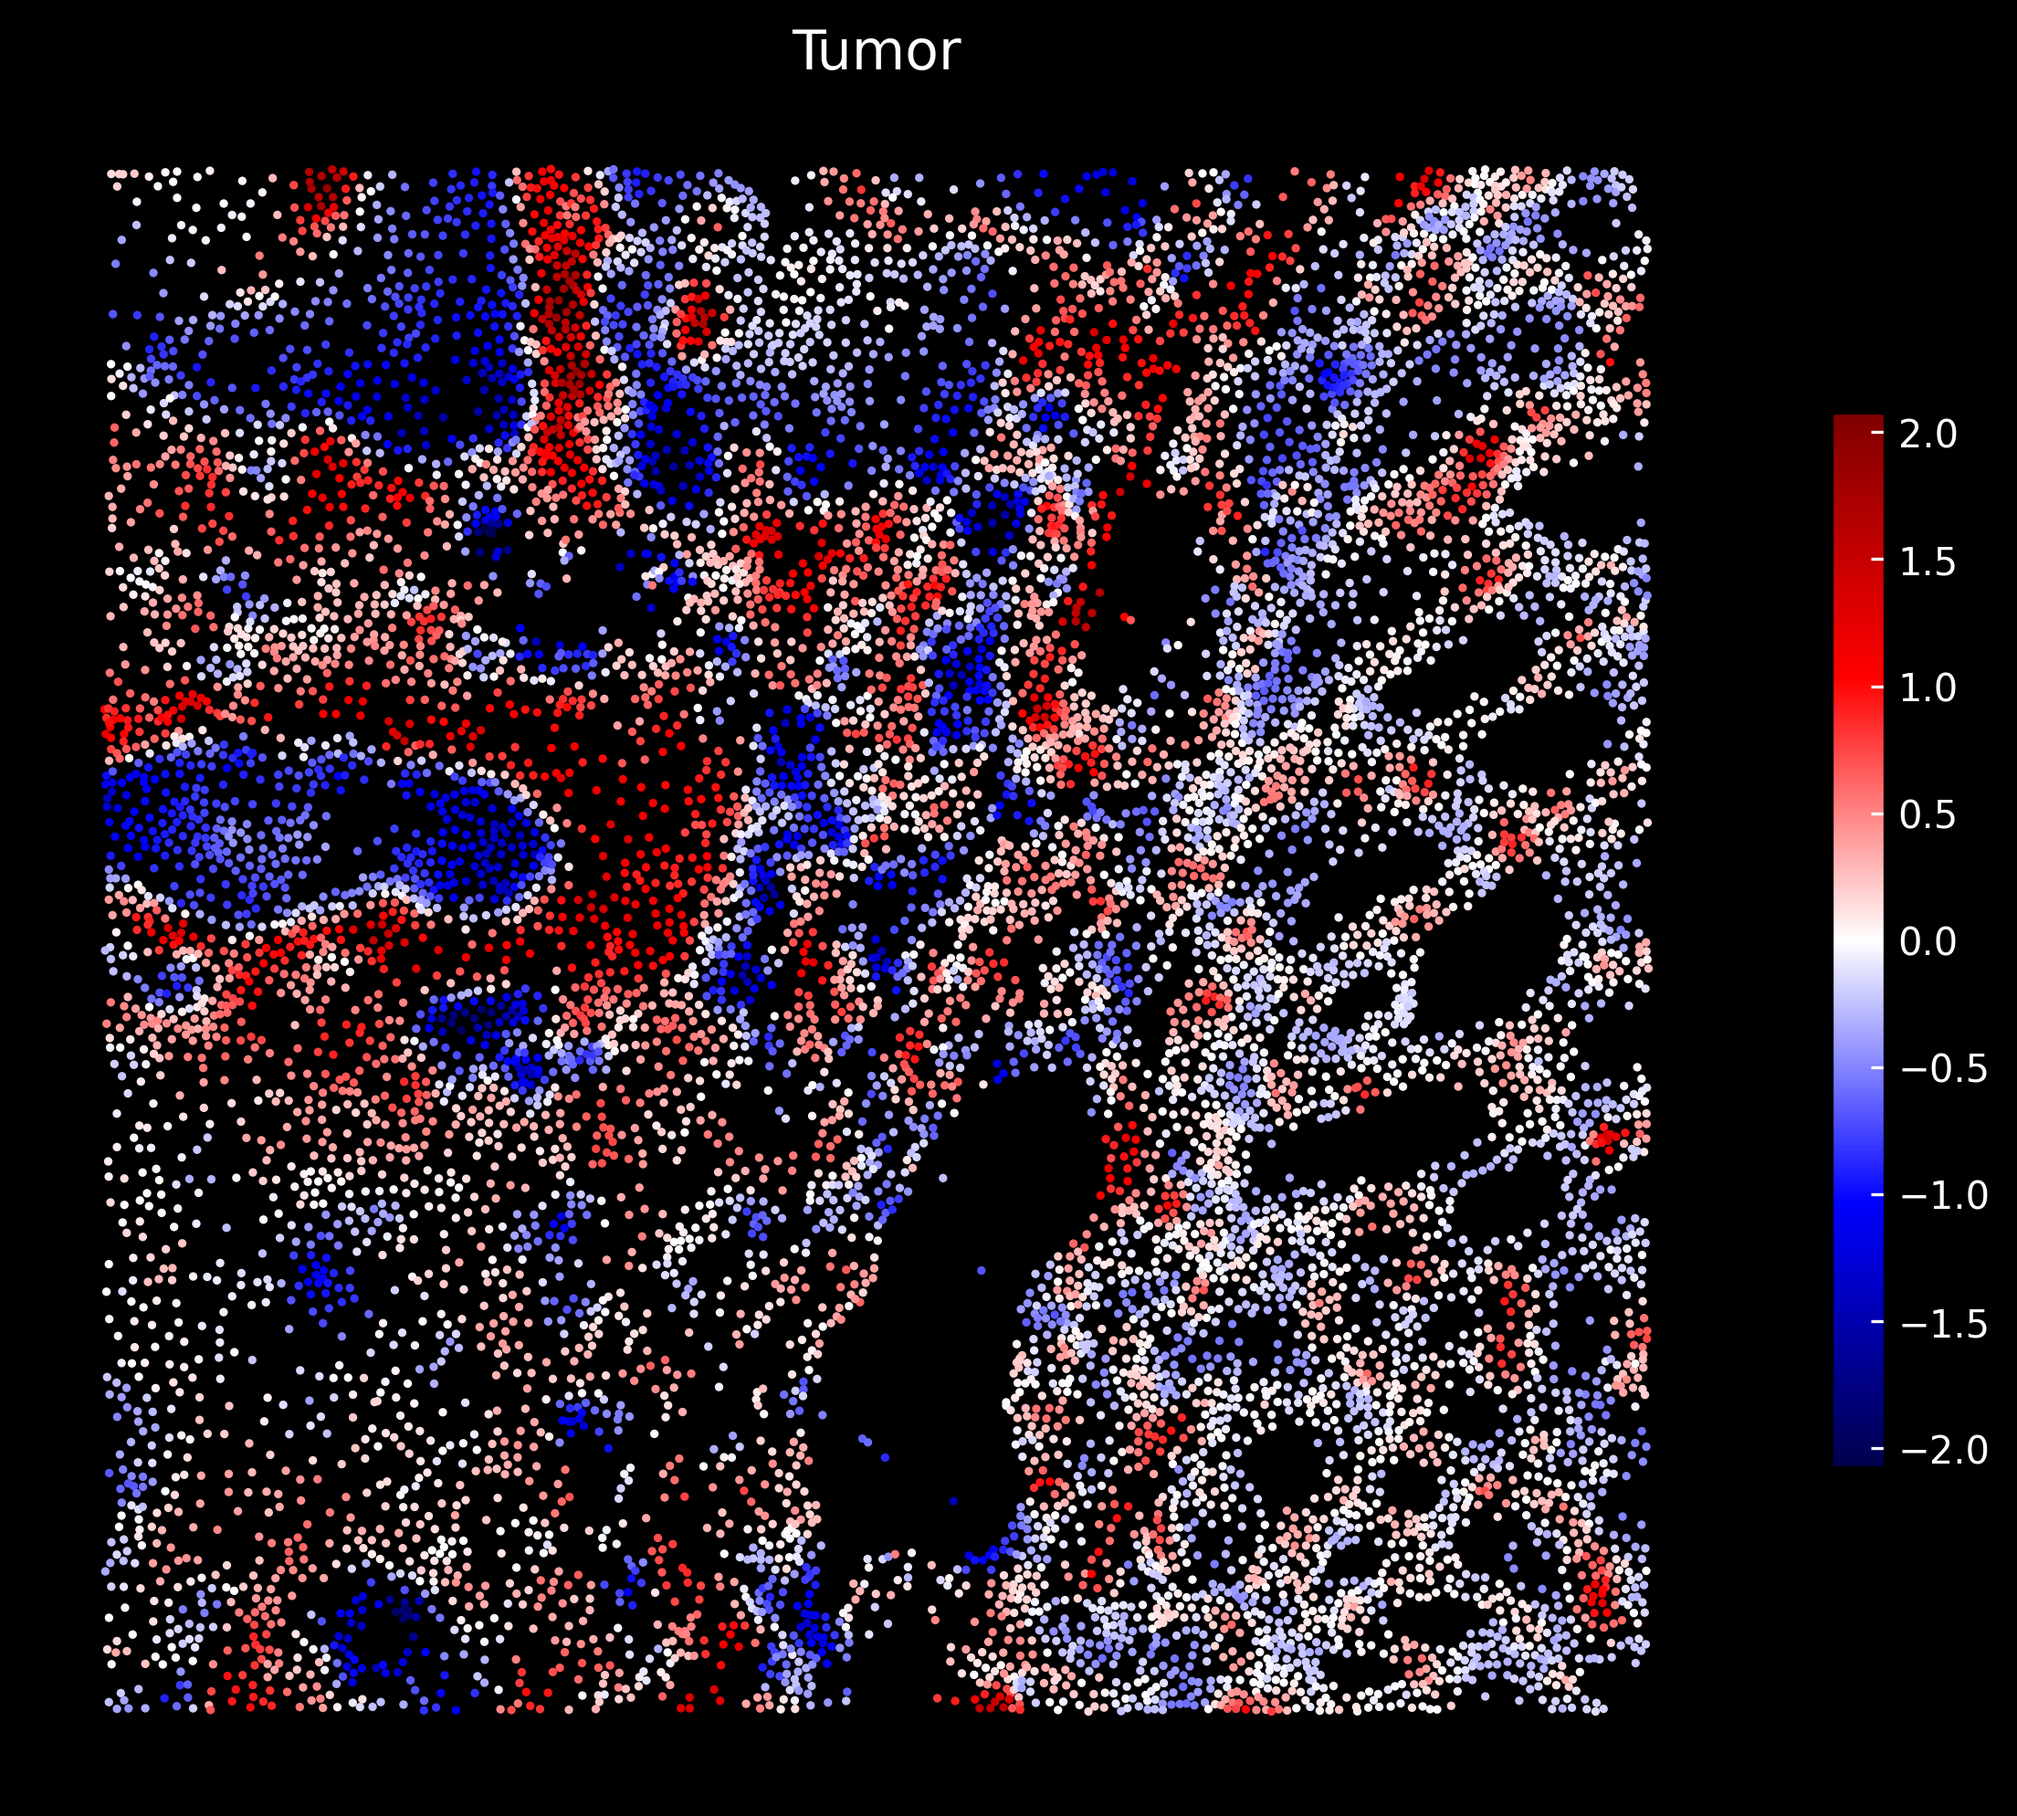
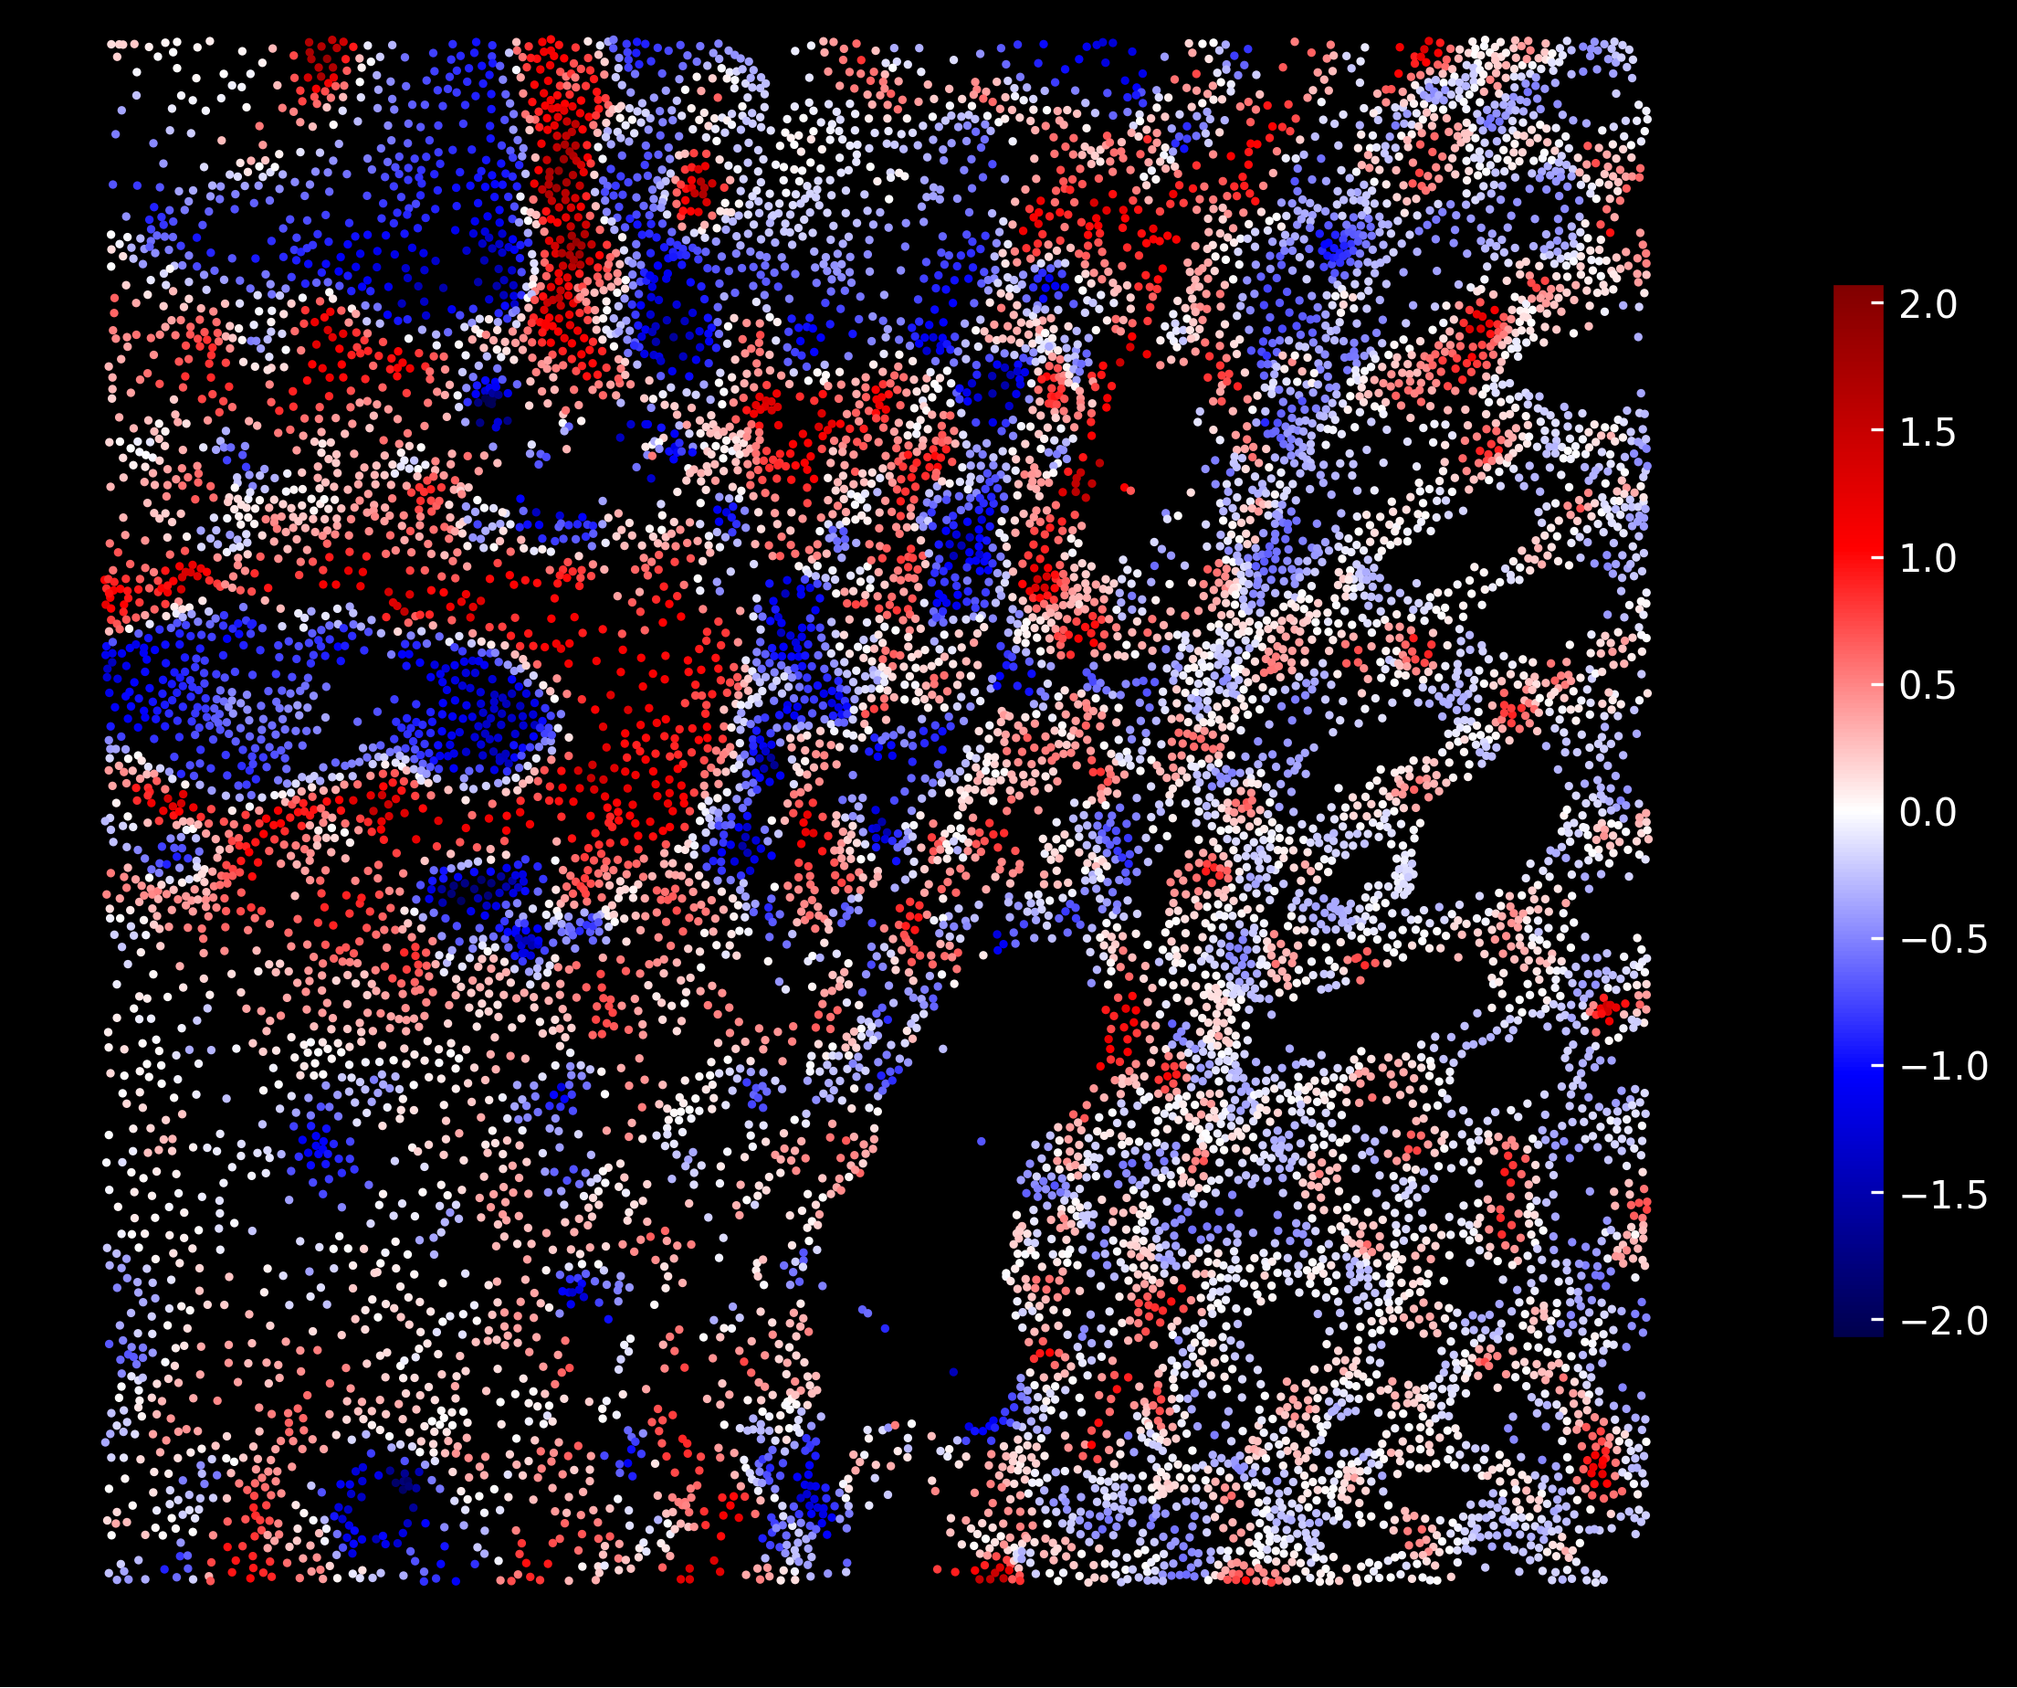
added figures of enrichymap scores (note that all say tumor, forgot to change titles)

diff --git a/scripts/data.py b/scripts/data.py
@@ -394,6 +394,7 @@ logger.info(
 model = novae.Novae.from_pretrained(
     params["novae_model"]
 )
+# NOTE: train our own model. See more on Novae page (put link)
 model.fine_tune(
     [adata],
     max_epochs=params[
@@ -408,6 +409,7 @@ model.save_pretrained(
 logger.info(
     "Computing Novae representations..."
 )
+# Inference based on zero_shot
 model.compute_representations(
     [adata], zero_shot=True
 )
